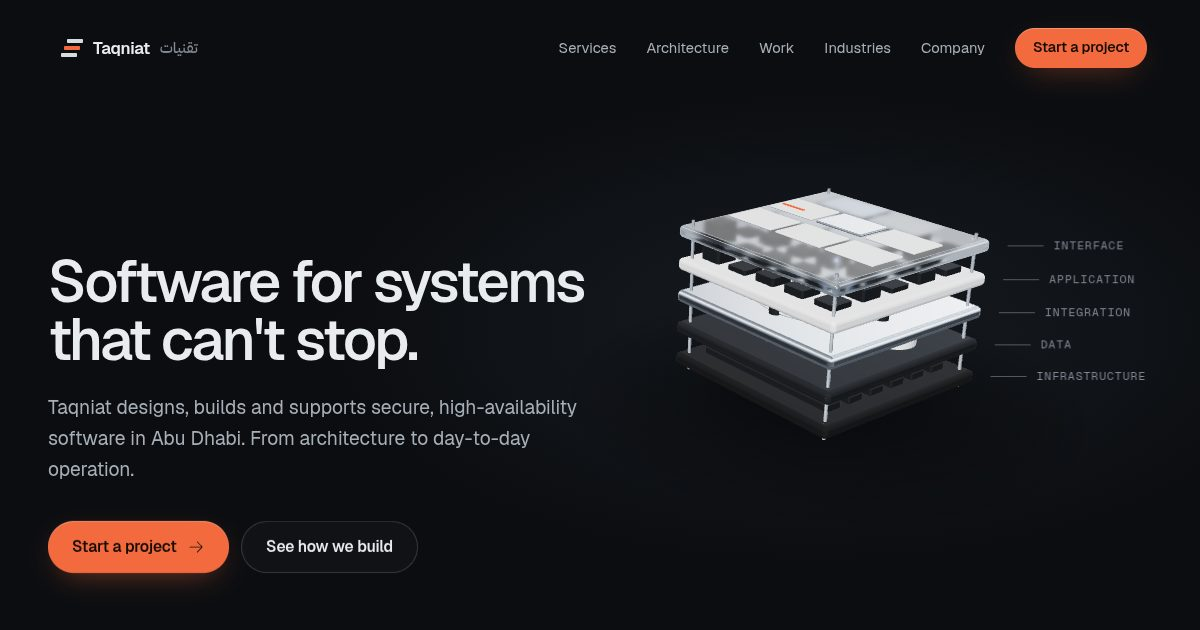
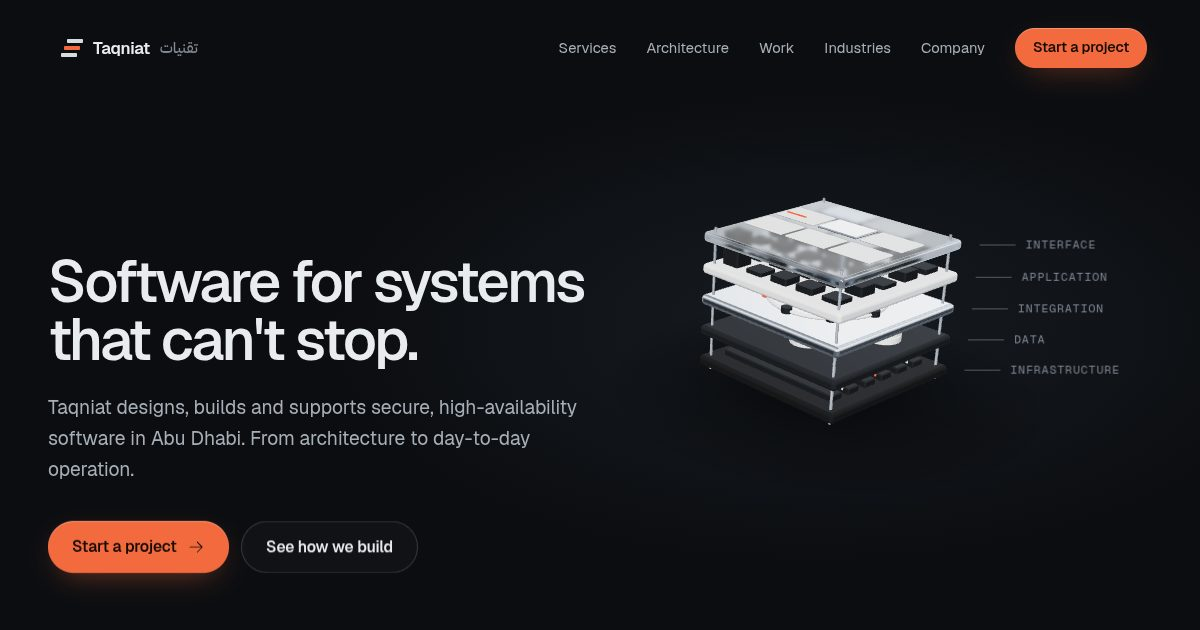
Fit hero and architecture scenes to tablet sizes
The hero stack now scales with viewport width and shifts left below 1200px,
so all five layer labels stay on screen at 1024px; any label that would
still overflow is hidden. The architecture camera pulls less toward the
selected node and leaves more margin, which stops the board's right edge
from clipping at 768px. Posters and the social image were regenerated to
match.

Claude-Session: https://claude.ai/code/session_01L6sYKzy58A7LadKyCv6h9w

diff --git a/src/three/hero.js b/src/three/hero.js
@@ -189,8 +189,9 @@ export function initHero(canvas, { tier, reduced, labels, onSelect }) {
     const halfH = Math.tan(fovR) * dist;
     const halfW = halfH * aspect;
     layout = wide
-      ? { x: halfW * 0.4, y: halfH * 0.04, scale: 0.8 }
-      : { x: 0, y: halfH * 0.3, scale: 0.95 };
+      // narrower landscape screens (tablets, small laptops) get a smaller stack so the labels fit
+      ? { x: halfW * (w < 1200 ? 0.36 : 0.4), y: halfH * 0.04, scale: THREE.MathUtils.clamp(w / 1800, 0.6, 0.8) }
+      : { x: 0, y: halfH * 0.3, scale: aspect > 0.65 ? 0.8 : 0.95 };
   }
 
   function placeLabels() {
@@ -211,6 +212,8 @@ export function initHero(canvas, { tier, reduced, labels, onSelect }) {
       const sx = (best.x * 0.5 + 0.5) * w + 18;
       const sy = (-best.y * 0.5 + 0.5) * h;
       labels[i].style.transform = `translate(${sx.toFixed(1)}px, ${sy.toFixed(1)}px) translateY(-50%)`;
+      // never let a label run off the edge of the screen
+      labels[i].style.visibility = sx + labels[i].offsetWidth > w - 16 ? 'hidden' : '';
       labels[i].classList.toggle('is-hot', hovered === i);
     });
   }

diff --git a/src/three/architecture.js b/src/three/architecture.js
@@ -107,7 +107,7 @@ export function initArchitecture(canvas, { tier, reduced, tagsEl, onPick }) {
     // on tall screens the board turns so the flow runs top to bottom
     world.rotation.y = portrait ? -Math.PI / 2 : 0;
     const fovR = THREE.MathUtils.degToRad(camera.fov / 2);
-    const span = portrait ? 9.4 : 17.6; // width of board we need on screen, with room for perspective
+    const span = portrait ? 9.4 : 18.2; // width of board we need on screen, with room for perspective
     // portrait also has to fit the board's length vertically
     const fitW = span / 2 / (Math.tan(fovR) * aspect);
     const dist = portrait ? Math.max(fitW, 8.4 / Math.tan(fovR) * 0.95) : Math.max(12, fitW);
@@ -162,7 +162,7 @@ export function initArchitecture(canvas, { tier, reduced, tagsEl, onPick }) {
     if (selected) {
       v.copy(selected.g.position);
       world.localToWorld(v);
-      const pull = portrait ? 0.1 : 0.25;
+      const pull = portrait ? 0.1 : 0.12;
       lookTarget.set(v.x * pull, 0, v.z * pull);
     } else {
       lookTarget.set(0, 0, 0);
